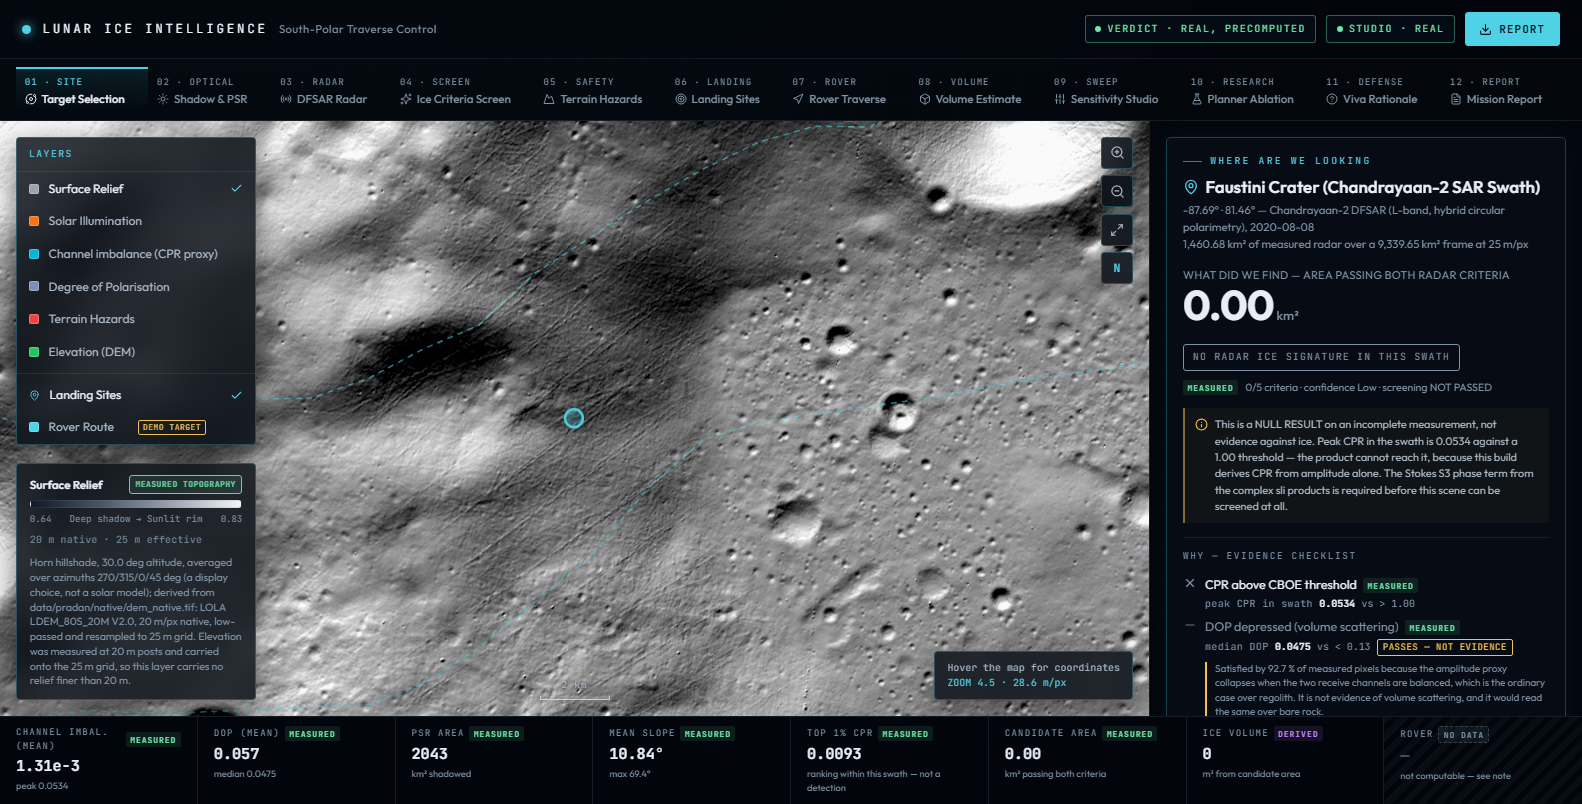
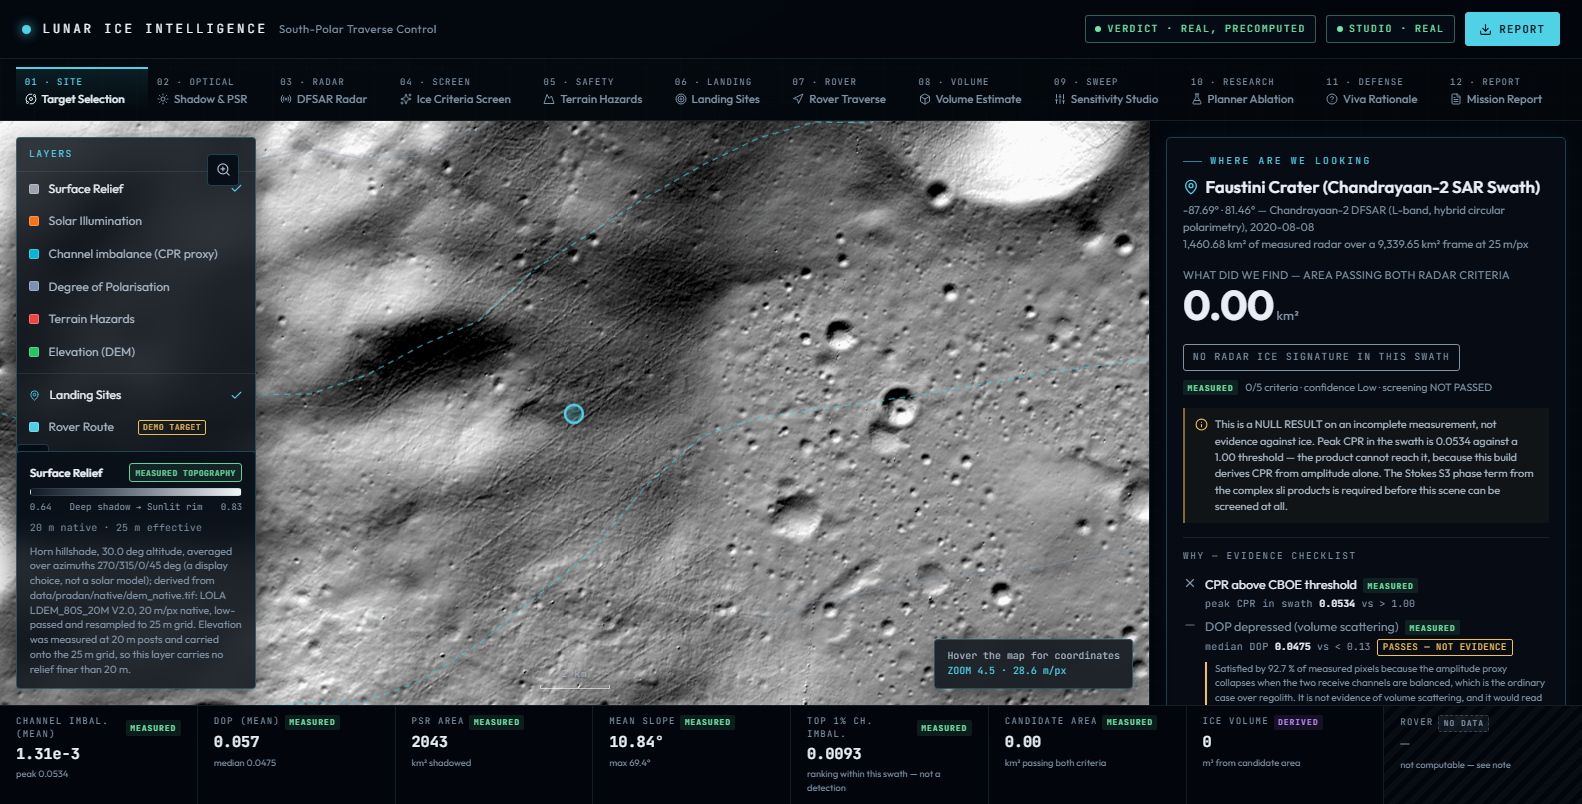
Safety is applied twice and the second application is inert; sites to the UI
THE DOUBLE-COUNTING, DIAGNOSED AND REPORTED RATHER THAN REWEIGHTED. The criteria
filter already removes every pixel with slope > 12 deg, roughness > 10 m or
hazard > 0.50, so everything reaching the composite is safe by construction and
`1 - hazard` has almost nothing left to separate:

    term      weight     min     max    span   role here
    access     0.188   0.704   0.924   0.219   RANKS the list
    power      0.312   0.759   0.896   0.137   RANKS the list
    safety     0.500   0.977   0.994   0.017   INERT - a gate, not a discriminator

THE LARGEST WEIGHT HAS THE SMALLEST SPAN. Safety enters the answer twice -- once
as a hard gate, where it does all its work, and once as a weighted score, where
it can do none. Same double-counting as scientific_value carrying only distance
while distance had already been subtracted, fixed in Phase 1b.

THE RANKING OF THIS LIST IS DETERMINED BY POWER AND ACCESS ALONE, and that
sentence is now in the script's output, in METHODS 9.6a, and in
landing_sites.json as ranking_note. The span is reported beside the weight so a
reader who sees "safety 0.50" cannot conclude safety drove the choice.

THE WEIGHTS ARE NOT RETUNED. Reweighting to make safety count would be
threshold-tuning against one frame. On rougher terrain, or a crater where the
filter admits more marginal ground, safety would discriminate. Its inertness here
is a property of THIS frame and is a measurement, not a flaw.
[…]

Changed region(s): [[0.0, 0.1555, 0.8363, 0.995], [0.8982, 0.8706, 0.9602, 0.995]]

diff --git a/frontend/src/mission/MissionMap.tsx b/frontend/src/mission/MissionMap.tsx
@@ -112,6 +112,7 @@
  * sub-pixel rms, lives in backend/app/ingestion/sar_geometry.py.
  */
 import { useEffect, useImperativeHandle, useRef, useState, forwardRef } from 'react';
+import type { SearchedSite } from './analysis';
 import L from 'leaflet';
 import 'leaflet/dist/leaflet.css';
 import type { MissionState, CandidateLandingSite } from '../types/mission';
@@ -665,6 +666,11 @@ interface Props {
    *  out a barely-tinted grey smear. */
   scienceOpacity: number;
   showLandingSites: boolean;
+  /** Phase 3 sites, searched over all 14.9 M native 25 m pixels. When present
+   *  these REPLACE the API's hardcoded grid offsets: those were asserted on a
+   *  100 x 100 grid, located to +/-500 m, and all five fell outside the measured
+   *  amplitude ribbon. Null means no search has been run on this host. */
+  searchedSites: SearchedSite[] | null;
   activeRoverStrategies: string[];
   selectedLandingSite: CandidateLandingSite | null;
   onSelectLandingSite: (s: CandidateLandingSite) => void;
@@ -673,7 +679,7 @@ interface Props {
 }
 
 export const MissionMap = forwardRef<MissionMapHandle, Props>(function MissionMap(
-  { mission, activeLayer, scienceOpacity, showLandingSites, activeRoverStrategies, selectedLandingSite, onSelectLandingSite, onCoords, onZoom },
+  { mission, activeLayer, scienceOpacity, showLandingSites, searchedSites, activeRoverStrategies, selectedLandingSite, onSelectLandingSite, onCoords, onZoom },
   ref,
 ) {
   const containerRef = useRef<HTMLDivElement>(null);
@@ -1145,6 +1151,52 @@ export const MissionMap = forwardRef<MissionMapHandle, Props>(function MissionMa
     }
 
     if (!showLandingSites) return;
+
+    // PHASE 3 SITES WIN. They were searched over every native 25 m pixel; the
+    // API's are five hardcoded offsets on a 100 x 100 grid, located to +/-500 m,
+    // and all five fell outside the measured amplitude ribbon. Drawing both
+    // would put two different answers to one question on the same map.
+    if (searchedSites && searchedSites.length) {
+      const inRibbon: string[] = [];
+      searchedSites.forEach((s2) => {
+        const [py, px] = gridToPixel(geom, s2.grid.sample, s2.grid.line);
+        const cov = coverageAt(geom, py, px);
+        inRibbon.push(`#${s2.rank} ${cov}`);
+        const suspect = /SUSPECT/i.test(s2.interpolation_check.verdict);
+        const marker = L.circleMarker([py, px], {
+          pane: 'mc-frame',
+          radius: s2.rank === 1 ? 9 : 7,
+          color: suspect ? '#f2c14e' : '#4fd1e6',
+          weight: 2,
+          fillColor: suspect ? '#f2c14e' : '#4fd1e6',
+          fillOpacity: 0.35,
+          className: 'mc-site mc-site--searched',
+        });
+        const crit = Object.entries(s2.criteria)
+          .map(([k, c]) => `${c.passed ? '&#10003;' : '&#10007;'} ${k} `
+            + `<b>${c.value}</b> ${c.comparison} ${c.threshold}`)
+          .join('<br/>');
+        marker.bindTooltip(
+          `<b>Site ${s2.rank}</b> &nbsp; score ${s2.suitability_score.toFixed(4)}<br/>`
+          + `${s2.lat_deg.toFixed(4)}&deg;, ${s2.lon_deg.toFixed(4)}&deg;<br/>`
+          + `<hr style="opacity:.3;margin:.3rem 0"/>${crit}`
+          + `<hr style="opacity:.3;margin:.3rem 0"/>`
+          + `<b>PSR ${s2.ice_access.psr_distance_km.toFixed(2)} km</b> — `
+          + `${s2.ice_access.means}<br/>`
+          + `<hr style="opacity:.3;margin:.3rem 0"/>`
+          + `<b>${suspect ? 'SUSPECT' : 'terrain OK'}</b>: plane-fit RMS `
+          + `${s2.interpolation_check.plane_rms_m} m, `
+          + `${s2.interpolation_check.ratio_to_reference_p05}&times; the frame`
+          + ` reference &mdash; ${s2.interpolation_check.verdict}`,
+          { direction: 'top', className: 'mc-tip', sticky: true, opacity: 1 },
+        );
+        marker.addTo(group);
+      });
+      console.info('[MissionMap] Phase 3 searched sites drawn (API sites suppressed): '
+        + inRibbon.join(', '));
+      return;
+    }
+
     rows.forEach(({ site, py, px, cov }) => {
       const sel = selectedLandingSite?.site_id === site.site_id;
       const rec = site.is_recommended;
@@ -1176,7 +1228,7 @@ export const MissionMap = forwardRef<MissionMapHandle, Props>(function MissionMa
       );
       marker.on('click', () => onSelectLandingSite(site));
     });
-  }, [mission, showLandingSites, selectedLandingSite, onSelectLandingSite, ready]);
+  }, [mission, showLandingSites, searchedSites, selectedLandingSite, onSelectLandingSite, ready]);
 
   // ── rover routes ───────────────────────────────────────────────
   //

diff --git a/frontend/src/mission/analysis.ts b/frontend/src/mission/analysis.ts
@@ -290,3 +290,62 @@ export function showPercent(v: AnalysisValue | undefined, digits = 2): string {
   if (pct < 0.01) return pct.toExponential(1);
   return pct.toFixed(digits);
 }
+
+
+/**
+ * A landing site SEARCHED over all 14,943,444 native 25 m pixels by
+ * backend/scripts/search_landing_sites.py, not asserted on a coarse grid.
+ *
+ * Only the resulting sites reach the screen. Every intermediate raster,
+ * percentile table and enrichment figure stays in docs/, and this file is
+ * written by the same script that chose the sites, so the markers and the
+ * evidence behind them cannot come from two different runs.
+ */
+export interface SearchedSite {
+  rank: number;
+  grid: { line: number; sample: number };
+  lat_deg: number;
+  lon_deg: number;
+  suitability_score: number;
+  /** Distance to the nearest MODELLED cold trap, not to detected ice. */
+  ice_access: { psr_distance_km: number; threshold_km: number; passed: boolean;
+                means: string };
+  solar_power: { illumination_fraction: number; threshold: number; passed: boolean };
+  criteria: Record<string, {
+    value: number; threshold: number; comparison: string; passed: boolean;
+  }>;
+  /** Is this smooth ground, or ground where the LOLA data ran out? */
+  interpolation_check: {
+    plane_rms_m: number; frame_reference_p05_m: number;
+    ratio_to_reference_p05: number; verdict: string;
+  };
+  score_decomposition: Record<string, {
+    term_value: number; weight: number; contribution: number; share_of_score: number;
+  }>;
+  provenance: Record<string, string>;
+}
+
+export interface SearchedSites {
+  generated_utc: string;
+  generator: string;
+  search: Record<string, unknown>;
+  ranking_note: {
+    determined_by: string[];
+    safety_is_inert_here: boolean;
+    why: string;
+    not_a_flaw_in_the_weights: string;
+    term_spans: Record<string, { weight: number; min: number; max: number; span: number }>;
+  };
+  sites: SearchedSite[];
+}
+
+/** Absent is a real state: no search has been run on this host. */
+export async function loadSearchedSites(): Promise<SearchedSites | null> {
+  try {
+    const r = await fetch('/analysis/landing_sites.json', { cache: 'no-cache' });
+    if (!r.ok) return null;
+    return (await r.json()) as SearchedSites;
+  } catch {
+    return null;
+  }
+}

diff --git a/frontend/src/mission/MissionControl.tsx b/frontend/src/mission/MissionControl.tsx
@@ -24,6 +24,7 @@ import { useEffect, useRef, useState } from 'react';
 import { fetchCraters, fetchMissionState, getReportPdfUrl } from '../services/api';
 import type { MissionState, CraterInfo, CandidateLandingSite } from '../types/mission';
 import { MissionMap, type MissionMapHandle, type LayerManifestEntry, groundResolutionLabel, loadManifest } from './MissionMap';
+import { loadSearchedSites, type SearchedSites } from './analysis';
 import { VerdictCard } from './VerdictCard';
 import { StepPanel } from './StepPanel';
 import { STEPS, LAYERS, LAYER_MAP } from './config';
@@ -191,6 +192,10 @@ export default function MissionControl() {
   const [scienceOpacity, setScienceOpacity] = useState(0.45);
   const [showRoute, setShowRoute] = useState(false);
   const [selectedSite, setSelectedSite] = useState<CandidateLandingSite | null>(null);
+  /** The Phase 3 sites, searched over all 14.9 M native pixels. Null means no
+   *  search has been run on this host -- an absent state, not an empty list. */
+  const [searched, setSearched] = useState<SearchedSites | null>(null);
+  useEffect(() => { loadSearchedSites().then(setSearched); }, []);
   const [coords, setCoords] = useState('Hover the map for coordinates');
   const [zoom, setZoom] = useState(1);
 
@@ -336,6 +341,7 @@ export default function MissionControl() {
             activeLayer={activeLayer}
             showLandingSites={showLandingSites}
             scienceOpacity={scienceOpacity}
+            searchedSites={searched?.sites ?? null}
             activeRoverStrategies={activeRoutes}
             selectedLandingSite={selectedSite}
             onSelectLandingSite={setSelectedSite}

diff --git a/backend/scripts/search_landing_sites.py b/backend/scripts/search_landing_sites.py
@@ -69,6 +69,8 @@ LOLA_DIR = BASE_DIR / "data" / "pradan" / "lola"
 RAW = BASE_DIR / "data" / "pradan" / "raw" / "data" / "calibrated" / "20200808"
 STEM = "ch2_sar_ncxl_20200808t201154198"
 OUT = BASE_DIR / "docs" / "landing_sites.json"
+#: The UI reads this one.
+OUT_UI = BASE_DIR / "frontend" / "public" / "analysis" / "landing_sites.json"
 HEATMAP = NATIVE / "landing_suitability.tif"
 
 
@@ -401,6 +403,47 @@ def main() -> int:
               f"{s['criteria']['slope_deg']['value']:>6.2f}° "
               f"{s['criteria']['hazard']['value']:>7.3f} "
               f"{'YES' if s['criteria']['in_amplitude_mask']['passed'] else 'NO':>6}")
+    # ---- WHICH TERM ACTUALLY RANKS THIS LIST -----------------------------
+    # SAFETY IS APPLIED TWICE, AND THE SECOND APPLICATION IS INERT.
+    #
+    # The criteria filter already removed everything with slope > 12 deg,
+    # roughness > 10 m or hazard > 0.50. So every pixel reaching the composite is
+    # SAFE BY CONSTRUCTION, and `safety = 1 - hazard` has almost nothing left to
+    # separate. It carries the largest weight and does none of the ranking.
+    #
+    # This is the same double-counting fixed in Phase 1b, where scientific_value
+    # held only distance while distance had already been subtracted: a quantity
+    # entering the answer twice, once where it bites and once where it cannot.
+    #
+    # THE WEIGHTS ARE NOT RETUNED. Reweighting to make safety "count" would be
+    # threshold-tuning against this frame. The weight is defensible -- on rougher
+    # terrain, or a crater where the filter admits more marginal ground, safety
+    # would discriminate. Its inertness HERE is a measurement, and it is reported
+    # as one.
+    spans = {}
+    for name in ("safety", "power", "access"):
+        vals = [st["score_decomposition"][name]["term_value"] for st in sites]
+        arr_w = sites[0]["score_decomposition"][name]["weight"]
+        spans[name] = {"weight": arr_w, "min": min(vals), "max": max(vals),
+                       "span": round(max(vals) - min(vals), 4)}
+    hr("WHICH TERM RANKS THIS LIST — the largest weight does the least work")
+    print(f"  {'term':>10}{'weight':>9}{'min':>9}{'max':>9}{'span':>9}   role here")
+    for name, d in sorted(spans.items(), key=lambda kv: -kv[1]["span"]):
+        role = ("RANKS the list" if d["span"] > 0.05
+                else "INERT — a gate, not a discriminator")
+        print(f"  {name:>10}{d['weight']:>9.3f}{d['min']:>9.3f}{d['max']:>9.3f}"
+              f"{d['span']:>9.3f}   {role}")
+    print()
+    print("  Safety carries the largest weight and the smallest span, because the")
+    print("  criteria filter already removed every unsafe pixel: everything that")
+    print("  reaches the composite is safe, so 1 - hazard has nothing left to")
+    print("  separate. It is applied TWICE — once as a hard gate, once as a")
+    print("  weighted score — and the second application does no work.")
+    print("  THE RANKING OF THIS LIST IS DETERMINED BY POWER AND ACCESS ALONE.")
+    print("  The weights are NOT retuned: on rougher terrain, or where the filter")
+    print("  admits more marginal ground, safety would discriminate. Its inertness")
+    print("  here is a property of THIS frame and is reported, not corrected.")
+
     print("\n  PSR km and illum are the two that fight: closer to the cold trap means")
     print("  less sun. Both are printed because the trade-off is the decision.")
 
@@ -442,11 +485,34 @@ def main() -> int:
                 "max": float(slope_max_cell.max()),
             },
         },
-        "sites": sites,
+"ranking_note": {
+            "determined_by": ["power", "access"],
+            "safety_is_inert_here": True,
+            "why": ("The criteria filter already removes every pixel with slope > "
+                    "12 deg, roughness > 10 m or hazard > 0.50, so everything "
+                    "reaching the composite is safe and `1 - hazard` has almost "
+                    "nothing left to separate. Safety is applied TWICE — once as a "
+                    "hard gate, once as a weighted score — and the second "
+                    "application is inert. The ranking is determined by the power "
+                    "and access terms alone."),
+            "not_a_flaw_in_the_weights": ("A property of THIS frame. On rougher "
+                                          "terrain, or a crater where the filter "
+                                          "admits more marginal ground, safety would "
+                                          "discriminate. The weights are not retuned."),
+            "term_spans": spans,
+        },
+"sites": sites,
     }
     OUT.parent.mkdir(parents=True, exist_ok=True)
     OUT.write_text(json.dumps(doc, indent=2), encoding="utf-8")
     print(f"\n  wrote {OUT.relative_to(BASE_DIR)}")
+    # ONLY THE RESULTING SITES GO TO THE SCREEN. Every intermediate raster,
+    # percentile table and enrichment figure stays in docs/. Written by the same
+    # script that chose them, so the markers and the evidence behind them cannot
+    # come from two different runs.
+    OUT_UI.parent.mkdir(parents=True, exist_ok=True)
+    OUT_UI.write_text(json.dumps(doc, indent=2), encoding="utf-8")
+    print(f"  wrote {OUT_UI.relative_to(BASE_DIR)}  (the UI reads this one)")
     return 0
 
 

diff --git a/docs/METHODS.md b/docs/METHODS.md
@@ -54,6 +54,12 @@ thing that has drifted is the thing meant to catch drift.
    reported "no artifact" for a perfect artifact. It measured −0.498 and printed
    a clean bill of health.
 
+**A test with the wrong sign is worse than no test at all.** No test leaves a
+question open; a test with the wrong sign closes it with the wrong answer, and
+hands you a green light to cite. The fifth instance would have certified a
+perfect interpolation artifact as clean terrain, and the site list would have
+shipped with that certification attached.
+
 **The fourth is the only one found BY DESIGN rather than by accident.** It was
 caught because the number was implausible on its face — a composite cannot carry
 *more* terrain relief than the terrain — and that is what a measurement is for.
@@ -1559,8 +1565,35 @@ near-perfectly safe; the term is saturated. Power ranges 0.758–0.896 and acces
 0.704–0.923. **The order of this list is decided by the two terms carrying
 together less than half its weight.**
 
-That is a finding about the weights, not something to tune away. It is reported
-because a composite that shows only its total would hide it.
+### 9.6a Safety is applied twice, and the second application is inert
+
+The cause is structural, not accidental. **The criteria filter has already
+removed every pixel with slope > 12°, roughness > 10 m or hazard > 0.50.** So
+everything reaching the composite is safe by construction, and `1 − hazard` has
+almost nothing left to separate:
+
+| term | weight | min | max | **span** | role here |
+|---|---|---|---|---|---|
+| access | 0.188 | 0.704 | 0.924 | **0.219** | ranks the list |
+| power | 0.312 | 0.759 | 0.896 | **0.137** | ranks the list |
+| **safety** | **0.500** | 0.977 | 0.994 | **0.017** | **inert — a gate, not a discriminator** |
+
+**The largest weight has the smallest span.** Safety enters the answer twice —
+once as a hard gate, where it does all its work, and once as a weighted score,
+where it can do none. That is the same double-counting fixed in Phase 1b, where
+`scientific_value` carried only distance while distance had already been
+subtracted: a quantity counted once where it bites and once where it cannot.
+
+**The ranking of this list is determined by the power and access terms alone.**
+
+**The weights are not retuned.** Reweighting to make safety "count" would be
+threshold-tuning against one frame. The weight is defensible: on rougher terrain,
+or a crater where the filter admits more marginal ground, safety would
+discriminate. **Its inertness here is a measurement, not a flaw**, and the span
+is reported beside the weight so a reader who sees "safety 0.50" cannot conclude
+that safety drove the choice.
+
+
 
 ### 9.7 What "PSR km" does not mean
 
@@ -1595,7 +1628,7 @@ this document would mean templating the prose that carries its reasoning.
 It catches the failure that has actually occurred here — an artifact
 changing underneath text that still quotes the old numbers.
 
-Stamped at commit `da0184a`.
+Stamped at commit `2c56ad0`.
 
 | artifact | sha256 | sections |
 |---|---|---|
@@ -1604,7 +1637,7 @@ Stamped at commit `da0184a`.
 | `docs/antialias_sigma.json` | `f6a2ee114aaf9a56…` | §8.1 |
 | `docs/cpr_significance.json` | `0c440b1811442128…` | §7.7, §7.9.1, §7.9.2, §7.9.3 |
 | `docs/enl.json` | `6057bd5d8ae62908…` | §7.1, §7.3, §7.5, §7.6 |
-| `docs/landing_sites.json` | `59eaae71c31d751f…` | §9.6, §9.7 |
+| `docs/landing_sites.json` | `6405581775517073…` | §9.6, §9.7 |
 | `docs/psr_validation.json` | `082c71a40d2f8f8e…` | §5.10 |
 | `docs/roughness_vs_latitude.json` | `ace9c0c9c9999d96…` | §9.1, §9.2 |
 | `docs/rover_coverage.json` | `45e2b31fed3a7cf8…` | §6.5 |
